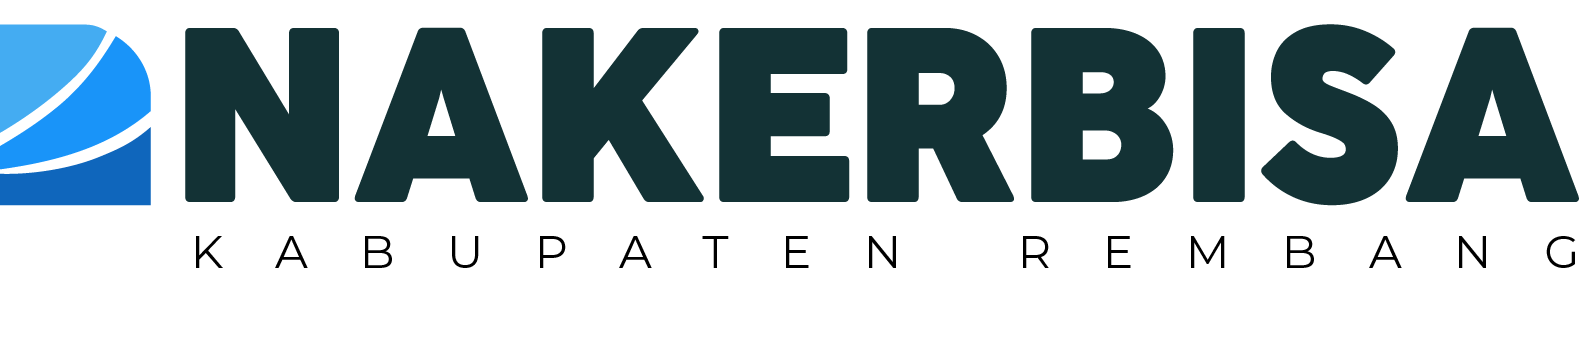
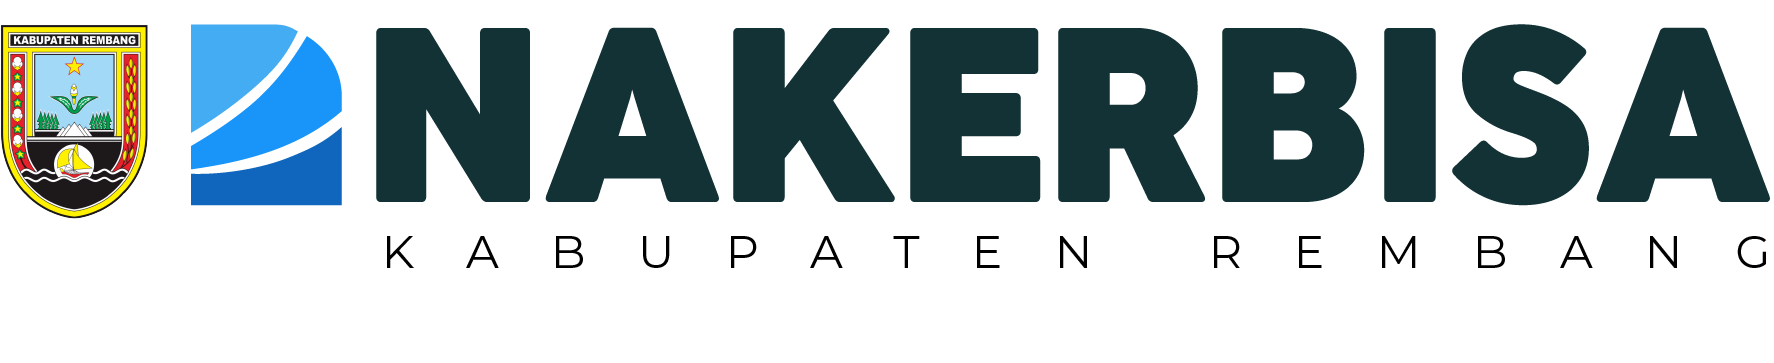
nakerbisa update profile

diff --git a/resources/views/backend/profil/index.blade.php b/resources/views/backend/profil/index.blade.php
@@ -19,49 +19,12 @@
                             <div class="col-xl-12">
                                 <h4 class="mb-4">Profile</h4>
                                 <a href="{{ route('cetak.cv') }}" class="btn btn-primary">
-                                    <i class="feather icon-download"></i> Cetak CV
+                                    <i class="feather icon-download"></i> Cetak CV ATS
                                 </a>
                             </div>
                         </div>
                         @auth
-                            <section class="section mt-3">
-                                <div class="row">
-                                    <div class="col-12 col-lg-6">
-                                        <div class="card">
-                                            <div class="card-body py-4 px-4">
-                                                <div class="d-flex align-items-center">
-                                                    <div class="avatar avatar-xl" style="border-radius:60px">
-                                                        <span>
-                                                            <i class="bi bi-person-fill" style="font-size: 50px"></i>
-                                                        </span>
-                                                    </div>
-                                                    <div class="ms-3 name">
-                                                        <h5 class="font-bold fs-6 m-1">Name</h5>
-                                                        <h6 class="text-muted mb-0 fs-6">{{ auth()->user()->name }}</h6>
-                                                    </div>
-                                                </div>
-                                            </div>
-                                        </div>
-                                    </div>
-                                    <div class="col-12 col-lg-6">
-                                        <div class="card">
-                                            <div class="card-body py-4 px-4">
-                                                <div class="d-flex align-items-center">
-                                                    <div class="avatar avatar-xl" style="border-radius:60px">
-                                                        <span>
-                                                            <i class="bi bi-envelope-fill" style="font-size: 50px"></i>
-                                                        </span>
-                                                    </div>
-                                                    <div class="ms-3 name">
-                                                        <h5 class="font-bold fs-6 m-1">Email</h5>
-                                                        <h6 class="text-muted mb-0 fs-6">{{ auth()->user()->email }}</h6>
-                                                    </div>
-                                                </div>
-                                            </div>
-                                        </div>
-                                    </div>
-                                </div>
-                            </section>
+                      
                             <!-- Section Dropdown (Update User) -->
                             <section class="section mt-3">
                                 <div class="card">
@@ -86,7 +49,7 @@
                                                         @method('PUT')
                                                         <div class="form-body">
                                                             <div class="row">
-                                                                <div class="col-12">
+                                                                <div class="col-6">
                                                                     <div class="form-group">
                                                                         <label for="first-name-vertical text-black">Name</label>
                                                                         <input type="text" id="first-name-vertical"
@@ -95,7 +58,7 @@
                                                                             value="{{ auth()->user()->name }}">
                                                                     </div>
                                                                 </div>
-                                                                <div class="col-12">
+                                                                <div class="col-6">
                                                                     <div class="form-group">
                                                                         <label for="email-id-vertical text-black">Email</label>
                                                                         <input type="email" id="email-id-vertical"
@@ -104,7 +67,19 @@
                                                                             value="{{ auth()->user()->email }}">
                                                                     </div>
                                                                 </div>
-                                                                <div class="col-12">
+
+                                                                <div class="col-6">
+                                                                    <div class="form-group">
+                                                                        <label for="whatsapp-id-vertical text-black">Whatsapp</label>
+                                                                        <input type="text" id="whatsapp-id-vertical"
+                                                                            class="form-control" name="whatsapp"
+                                                                            placeholder="whatsapp"
+                                                                            value="{{ auth()->user()->whatsapp }}">
+                                                                    </div>
+                                                                </div>
+
+
+                                                                <div class="col-6">
                                                                     <div class="form-group">
                                                                         <label
                                                                             for="password-vertical text-black">Password</label>
@@ -132,6 +107,91 @@
                                 </div>
                             </section>
                         @endauth
+
+                        <!-- Section Dropdown (Update Profil) -->
+                        <section class="section mt-3">
+                            <div class="card">
+                                <div class="accordion accordion-flush" id="accordionFlushExample">
+                                    <div class="accordion-item">
+                                        <h2 class="accordion-header" id="flush-headingOne">
+                                            <button class="accordion-button collapsed" type="button"
+                                                data-bs-toggle="collapse" data-bs-target="#flush-collapseOne"
+                                                aria-expanded="false" aria-controls="flush-collapseOne">
+                                                <h4 class="card-title">Update Profil</h4>
+                                            </button>
+                                        </h2>
+                                        <div id="flush-collapseOne" class="accordion-collapse collapse show"
+                                            aria-labelledby="flush-headingOne" data-bs-parent="#accordionFlushExample"
+                                            style="">
+                                            <div class="accordion-body">
+
+                                                <form class="form form-vertical"
+                                                    action="{{ route('admin.update-user', auth()->user()->id) }}"
+                                                    method="POST">
+                                                    @csrf
+                                                    @method('PUT')
+                                                    <div class="form-body">
+                                                        <div class="row">
+                                                            <div class="col-6">
+                                                                <div class="form-group ">
+                                                                    <label for="first-name-vertical text-black">Nama</label>
+                                                                    <input type="text" id="first-name-vertical"
+                                                                        class="form-control" name="name"
+                                                                        placeholder="Name"
+                                                                        value="{{ $profil->name }}">
+                                                                </div>
+                                                            </div>
+                                                            <div class="col-6">
+                                                                <div class="form-group">
+                                                                    <label for="email-id-vertical text-black">KTP</label>
+                                                                    <input type="email" id="email-id-vertical"
+                                                                        class="form-control" name="email"
+                                                                        placeholder="Email"
+                                                                        value="{{ $profil->ktp }}">
+                                                                </div>
+                                                            </div>
+
+                                                            <div class="col-6">
+                                                                <div class="form-group">
+                                                                    <label for="tempat-vertical text-black">Tempat Lahir</label>
+                                                                    <input type="text" id="tempat-vertical"
+                                                                        class="form-control" name="name"
+                                                                        placeholder="Tempat Lahir"
+                                                                        value="{{ $profil->tempat_lahir }}">
+                                                                </div>
+                                                            </div>
+                                                            <div class="col-6">
+                                                                <div class="form-group">
+                                                                    <label for="email-id-vertical text-black">Tanggal Lahir</label>
+                                                                    <input type="date" id="date-id-vertical"
+                                                                        class="form-control" name="tanggal_lahir"
+                                                                        placeholder="Email"
+                                                                        value="{{ $profil->tanggal_lahir }}">
+                                                                </div>
+                                                            </div>
+
+
+                                                           
+
+                                                           
+
+                                                            <div class="col-12 d-flex justify-content-end">
+                                                                <button type="submit"
+                                                                    class="btn btn-primary me-1 mb-1 mt-3">
+                                                                    Update
+                                                                </button>
+                                                            </div>
+                                                        </div>
+                                                    </div>
+                                                </form>
+                                            </div>
+                                        </div>
+                                    </div>
+                                </div>
+                            </div>
+                        </section>
+
+
                         <!-- Section Dropdown (Update Pendidikan) -->
                         <section class="section mt-3">
                             <div class="card">
@@ -144,7 +204,7 @@
                                                 <h4 class="card-title">Pendidikan</h4>
                                             </button>
                                         </h2>
-                                        <div id="flush-collapsePendidikan" class="accordion-collapse collapse"
+                                        <div id="flush-collapsePendidikan" class="accordion-collapse collapse show"
                                             aria-labelledby="flush-headingPendidikan"
                                             data-bs-parent="#accordionFlushPendidikan">
                                             <div class="accordion-body">
@@ -196,7 +256,7 @@
                                                 <h4 class="card-title">Pengalaman Kerja</h4>
                                             </button>
                                         </h2>
-                                        <div id="flush-collapsePengalaman" class="accordion-collapse collapse"
+                                        <div id="flush-collapsePengalaman" class="accordion-collapse collapse show"
                                             aria-labelledby="flush-headingPengalaman"
                                             data-bs-parent="#accordionFlushPengalaman">
                                             <div class="accordion-body">
@@ -250,7 +310,7 @@
                                                 <h4 class="card-title">Keterampilan</h4>
                                             </button>
                                         </h2>
-                                        <div id="flush-collapseKeterampilan" class="accordion-collapse collapse"
+                                        <div id="flush-collapseKeterampilan" class="accordion-collapse collapse show"
                                             aria-labelledby="flush-headingKeterampilan"
                                             data-bs-parent="#accordionFlushKeterampilan">
                                             <div class="accordion-body">

diff --git a/resources/views/backend/profil/cetak-cv.blade.php b/resources/views/backend/profil/cetak-cv.blade.php
@@ -75,7 +75,7 @@
                                 <span class="bold">{{ $item->nama_sekolah ?? 'Tidak Ada Nama Sekolah' }}</span>,
                                 {{ $item->jurusan_name ?? 'Tidak Ada Jurusan' }} | Tahun Lulus: {{ $item->lulus ?? 'Tidak Ada Tahun Lulus' }}
                             </p>
-                            <p class="content">{{ $item->alamat_sekolah ?? 'Tidak Ada Alamat Sekolah' }}</p>
+                            {{-- <p class="content">{{ $item->alamat_sekolah ?? 'Tidak Ada Alamat Sekolah' }}</p> --}}
                         </li>
                     @endforeach
                 </ul>
@@ -92,7 +92,7 @@
                             <p><span class="bold">{{ $item->nama_perusahaan ?? 'Tidak Ada Nama Perusahaan' }}</span> - {{ $item->jabatan ?? 'Tidak Ada Nama Jabatan' }} |
                                 {{ $item->mulai_tahun ?? '-' }} - {{ $item->berhenti_tahun ?? '-'}}</p>
                             </p>
-                            <p>{{ $item->alamat_perusahaan ?? '-' }}</p>
+                            {{-- <p>{{ $item->alamat_perusahaan ?? '-' }}</p> --}}
                         </li>
                     @endforeach
                 </ul>
@@ -106,9 +106,9 @@
                 <ul>
                     @foreach ($keterampilan as $item)
                         <li>
-                            <p>{{ $item->lembaga_penyelenggara ?? '-' }} - {{ $item->no_sertifikat ?? '-' }}</p>
-                            <p>{{ $item->alamat_penyelenggara ?? '-' }}</p>
-                            <p>{{ $item->lulus_tahun ?? '-' }} | {{ $item->lembaga_penguji ?? '-' }}</p>
+                            <p>{{ $item->lembaga_penyelenggara ?? '-' }} - {{ $item->no_sertifikat ?? '-' }} - {{ $item->lulus_tahun ?? '-' }} | {{ $item->lembaga_penguji ?? '-' }}</p>
+                            {{-- <p>{{ $item->alamat_penyelenggara ?? '-' }}</p> --}}
+                            {{-- <p></p> --}}
                         </li>
                     @endforeach
                 </ul>

diff --git a/app/Http/Controllers/ProfileController.php b/app/Http/Controllers/ProfileController.php
@@ -6,6 +6,7 @@ use App\Models\NakerPencariKeterampilan;
 use App\Models\NakerPencariPendidikan;
 use App\Models\NakerPencariPengalaman;
 use App\Models\User;
+use App\Models\UserPencari;
 use Illuminate\Http\Request;
 
 class ProfileController extends Controller
@@ -13,6 +14,11 @@ class ProfileController extends Controller
     //
     public function index(Request $request)
     {
+        $user = auth()->user();
+
+        // dd($user->id);
+        // die();
+        $profil = UserPencari::where('user_id', $user->id)->first();  // Sesuaikan relasi dengan tabel User jika ada
         $pendidikan = NakerPencariPendidikan::select(
             'naker_pencari_pendidikan.*',
             'naker_pendidikan.name as pendidikan_name', // Nama Pendidikan
@@ -30,7 +36,7 @@ class ProfileController extends Controller
         $pengalaman = NakerPencariPengalaman::where('user_id', auth()->id())->get();
 
         // Mengirim data ke view
-        return view('backend.profil.index', compact('pendidikan', 'keterampilan', 'pengalaman'));
+        return view('backend.profil.index', compact('profil', 'pendidikan', 'keterampilan', 'pengalaman'));
     }
 
     public function updateUser(Request $request, $id)

diff --git a/resources/views/backend/template/sidebar-bkk.blade.php b/resources/views/backend/template/sidebar-bkk.blade.php
@@ -2,7 +2,7 @@
     <div class="app-brand demo">
         <a href="index.html" class="app-brand-link">
             <span class="app-brand-logo demo">
-                <img src="{{ asset('assets/nakerbisa_be/img/nakerbisa-rembang.png') }}" width="150px">
+                <img src="{{ asset('assets/nakerbisa_be/img/nakerbisa-rembang.png') }}" width="200px">
             </span>
             <!-- <span class="app-brand-text demo menu-text fw-bolder ms-2">NAKERBISA</span> -->
         </a>

diff --git a/resources/views/backend/template/sidebar-pencari.blade.php b/resources/views/backend/template/sidebar-pencari.blade.php
@@ -2,7 +2,7 @@
     <div class="app-brand demo">
         <a href="index.html" class="app-brand-link">
             <span class="app-brand-logo demo">
-                <img src="{{ asset('assets/nakerbisa_be/img/nakerbisa-rembang.png') }}" width="150px">
+                <img src="{{ asset('assets/nakerbisa_be/img/nakerbisa-rembang.png') }}" width="200px">
             </span>
             <!-- <span class="app-brand-text demo menu-text fw-bolder ms-2">NAKERBISA</span> -->
         </a>

diff --git a/resources/views/backend/template/sidebar-penyedia.blade.php b/resources/views/backend/template/sidebar-penyedia.blade.php
@@ -2,7 +2,7 @@
     <div class="app-brand demo">
         <a href="index.html" class="app-brand-link">
             <span class="app-brand-logo demo">
-                <img src="{{ asset('assets/nakerbisa_be/img/nakerbisa-rembang.png') }}" width="150px">
+                <img src="{{ asset('assets/nakerbisa_be/img/nakerbisa-rembang.png') }}" width="200px">
             </span>
             <!-- <span class="app-brand-text demo menu-text fw-bolder ms-2">NAKERBISA</span> -->
         </a>

diff --git a/resources/views/backend/template/sidebar.blade.php b/resources/views/backend/template/sidebar.blade.php
@@ -2,7 +2,7 @@
     <div class="app-brand demo">
         <a href="index.html" class="app-brand-link">
             <span class="app-brand-logo demo">
-                <img src="{{ asset('assets/nakerbisa_be/img/nakerbisa-rembang.png') }}" width="150px">
+                <img src="{{ asset('assets/nakerbisa_be/img/nakerbisa-rembang.png') }}" width="200px">
             </span>
             <!-- <span class="app-brand-text demo menu-text fw-bolder ms-2">NAKERBISA</span> -->
         </a>

diff --git a/resources/views/components/header.blade.php b/resources/views/components/header.blade.php
@@ -50,6 +50,9 @@
                     <span data-text-preloader="K" class="letters-loading">
                         K
                     </span>
+                    <span data-text-preloader="E" class="letters-loading">
+                        E
+                    </span>
                     <span data-text-preloader="R" class="letters-loading">
                         R
                     </span>
